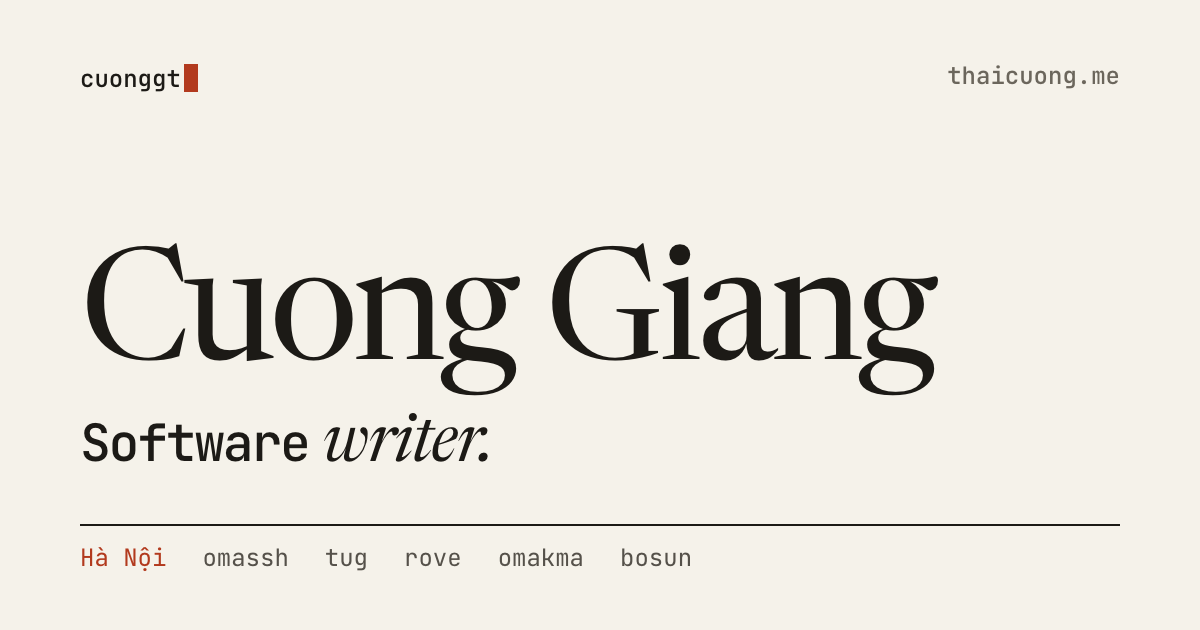
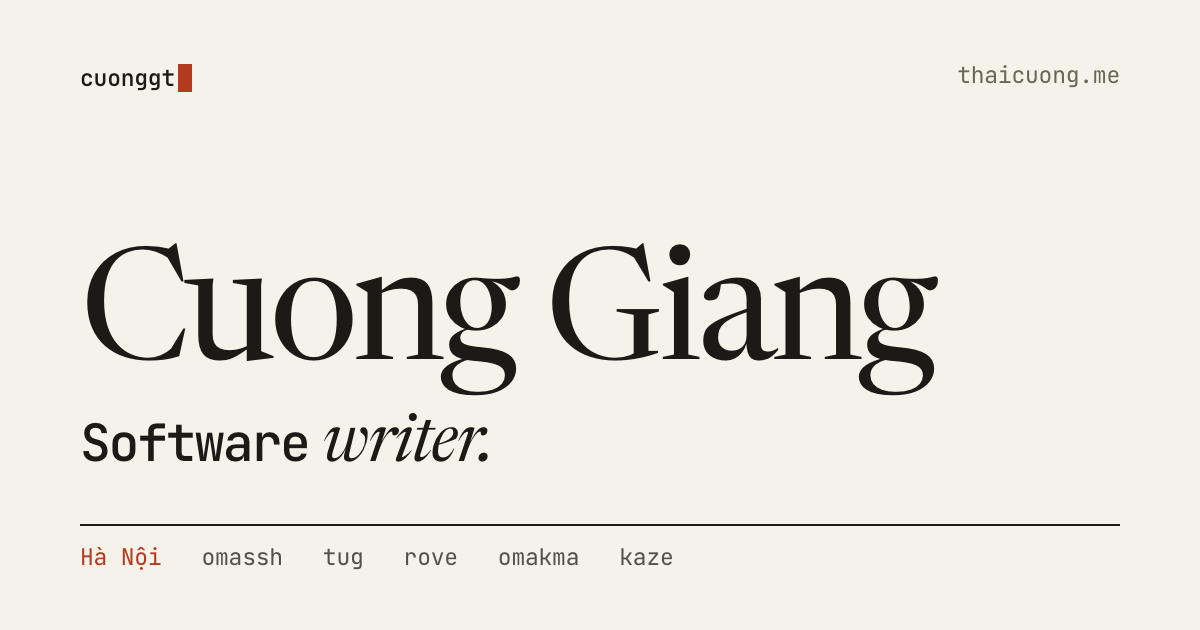
Bring the share card and the descriptions up to date
The card still named bosun, which has one star, no description and no
releases, while kaze and laravel-dibi, the two most-starred repositories
here, were not on it at all. bosun gives up its place to kaze.

Nothing in the repository said how the card was made, so it was rebuilt
from the tokens in site.css and rendered at 1200x630. Above the feet
line it matches the old one to within antialiasing. Two details only the
pixels knew: the rule is two pixels of --ink rather than --rule, and the
project names are --ink-2 rather than --ink-3.

Both descriptions offered terminal tools, a web framework and packages,
and nothing about a Mac app. They now name the native Mac SSH client, at
155 and 133 characters, so neither is cut short where it is read.

diff --git a/index.html b/index.html
@@ -4,7 +4,7 @@
   <meta charset="utf-8">
   <meta name="viewport" content="width=device-width, initial-scale=1">
   <title>Cuong Giang — software writer</title>
-  <meta name="description" content="Cuong Giang, a software writer in Hà Nội, makes keyboard-driven terminal tools in Go, a Go web framework for Inertia.js, and packages for Laravel and Rails.">
+  <meta name="description" content="Cuong Giang, a software writer in Hà Nội. Terminal tools in Go, a Go web framework for Inertia.js, a native Mac SSH client, and Rails and Laravel packages.">
   <link rel="canonical" href="https://thaicuong.me/">
   <meta name="author" content="Cuong Giang">
   <meta name="color-scheme" content="light dark">
@@ -14,7 +14,7 @@
   <meta property="og:type" content="website">
   <meta property="og:url" content="https://thaicuong.me/">
   <meta property="og:title" content="Cuong Giang — software writer">
-  <meta property="og:description" content="Keyboard-driven terminal tools in Go, a Go web framework for Inertia.js, and packages for Laravel and Rails.">
+  <meta property="og:description" content="Keyboard-driven terminal tools in Go, a Go web framework for Inertia.js, a native Mac SSH client, and packages for Rails and Laravel.">
   <meta property="og:image" content="https://thaicuong.me/assets/og.png">
   <meta property="og:image:width" content="1200">
   <meta property="og:image:height" content="630">
